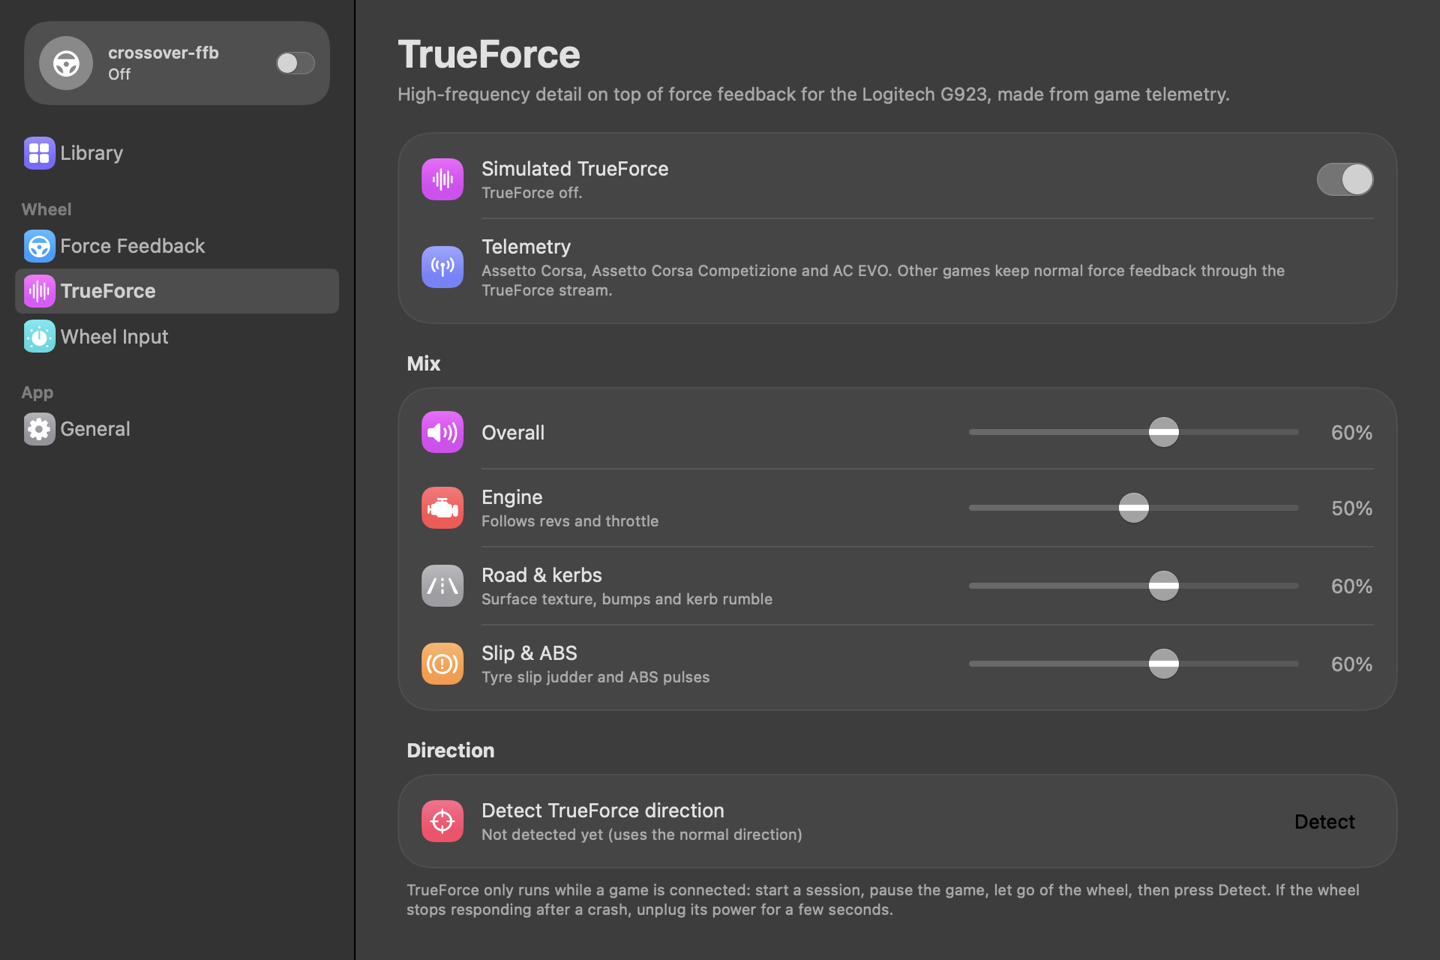
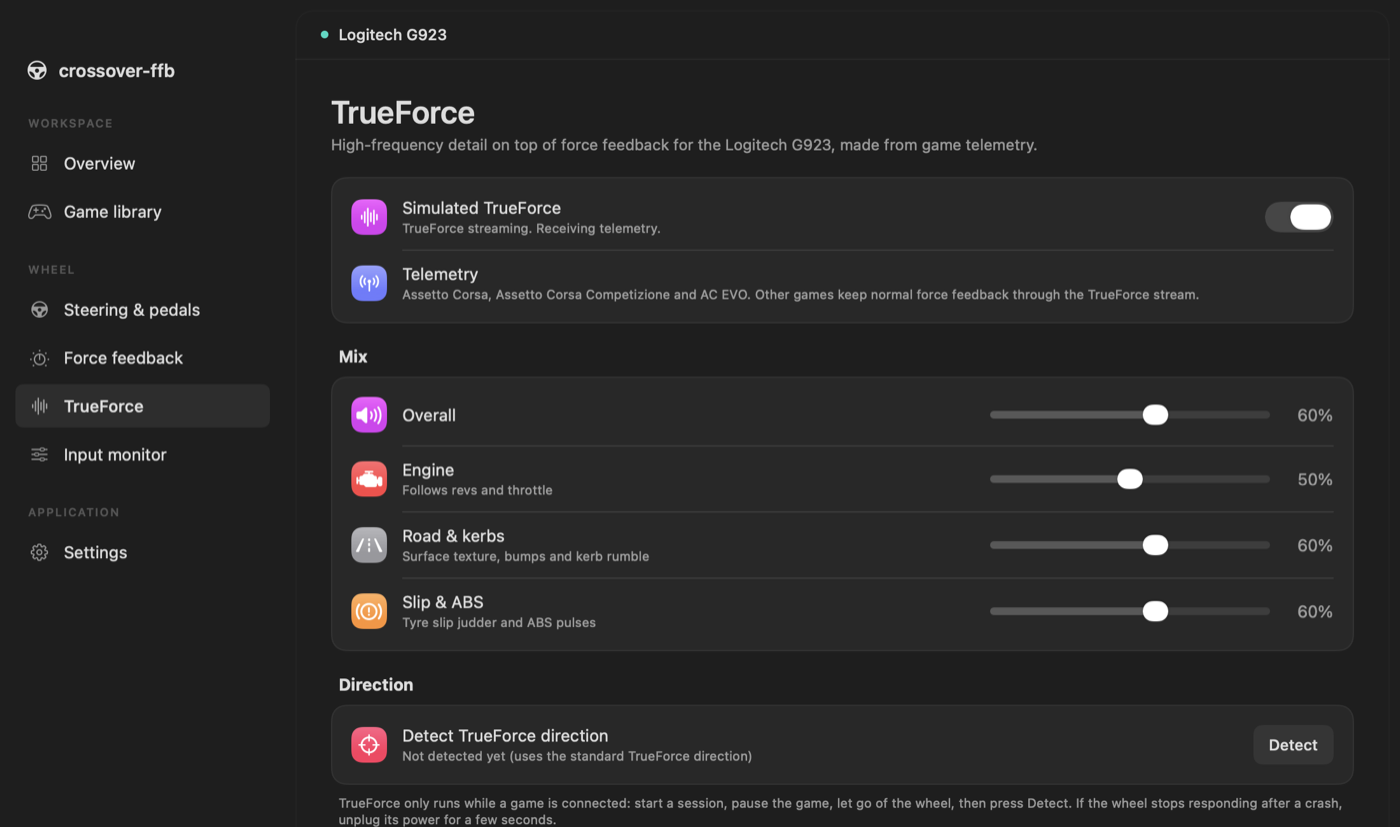
Rewrite README for 0.3.0 with new screenshots
Adds a hero image of the new dashboard, refreshes the wheel and
TrueForce screenshots, and removes the old menu and library images.
Documents what's new in 0.3.0, G29 identity and unsupported wheels,
the bridge foundations (identity, enumeration diagnostics, disabled
native SDK and newer-wheel groundwork), and the native build system.

diff --git a/README.md b/README.md
@@ -1,3 +1,7 @@
+<p align="center">
+  <img src="docs/images/hero.png" width="860" alt="crossover-ffb dashboard with a connected Logitech G923">
+</p>
+
 <h1 align="center">crossover-ffb</h1>
 
 <p align="center">
@@ -9,8 +13,8 @@
 
 Windows sims run well on Apple Silicon through Wine, but the wheel arrives dead: no force
 feedback, sometimes no wheel at all. crossover-ffb fixes that. It's a small menu bar app plus
-a Windows DLL that it installs into your games for you. The game sees a normal Logitech G923,
-and its forces reach the real wheel on your Mac.
+a Windows DLL that it installs into your games for you. The game sees a normal Logitech G923
+or G29, and its forces reach the real wheel on your Mac.
 
 - **Force feedback.** Constant forces, springs, dampers, friction, periodic effects and
   envelopes, played on the motor at about 500 Hz.
@@ -21,19 +25,33 @@ and its forces reach the real wheel on your Mac.
   was there before.
 - **G HUB-style wheel settings.** Operating range from 40° to 900°, steering and pedal
   sensitivity curves, a centering spring, combined pedals, and rev lights driven by the game's rpm.
-- **Lives in the menu bar.** No Dock icon. A full Settings window has the game library,
-  force-feedback and TrueForce tuning, and a live input view.
+- **Lives in the menu bar.** A Liquid Glass menu shows steering, pedals and force at a glance.
+  The dashboard window has the game library, wheel, force-feedback and TrueForce settings, and a
+  live input monitor.
 
-<p align="center">
-  <img src="docs/images/library.png" width="820" alt="Library page in the Settings window">
-</p>
+## What's new in 0.3.0
+
+- **G29 identity.** Games now see a connected G29 as a G29 instead of a G923, so G29 presets
+  and bindings can match. See [Bridge foundations](#bridge-foundations-in-030).
+- **New interface.** The menu is a single Liquid Glass surface with native sliders and
+  switches. The dashboard has a slimmer header, clearer empty states, and page titles that
+  match the sidebar.
+- **Honest about other wheels.** A G923 for Xbox, RS50 or G PRO is recognised and shown as
+  not supported yet. The app never attaches to it or writes to it.
+- **Better diagnostics.** The bridge log records which wheel each game was offered.
+- **Groundwork for Logitech's native SDK and newer wheels.** It's present in the code but
+  disabled and not hardware-tested.
+
+Update the bridge in each game after upgrading: the Library shows **Update**. The app and the
+bridge must both be 0.3.0 for the G29 identity.
 
 ## Compatibility
 
 | | Status |
 |---|---|
-| **Wheels** | Logitech **G923** (PlayStation/PC, `046d:c266`): tested. Logitech **G29** (`046d:c24f`): force feedback should work but is untested. TrueForce is G923 only. |
-| **macOS** | 13 Ventura or later on Apple Silicon. Liquid Glass styling on macOS 26. |
+| **Wheels** | Logitech **G923** (PlayStation/PC, `046d:c266`): tested. Logitech **G29** (`046d:c24f`): supported, not yet confirmed on hardware. TrueForce is G923 only. |
+| **Not supported yet** | G923 for Xbox (`c26e`, `c26d`), RS50 (`c276`), G PRO (`c268`), and `c272`, which RS50 and G PRO share. Shown in the app, never driven. |
+| **macOS** | 13 Ventura or later on Apple Silicon. Liquid Glass on macOS 26 and later. |
 | **Runners** | Steam games through **NotProton**, **CrossOver** bottles (including Steam inside a bottle), any other Wine prefix via **Add Game** |
 | **Games** | Any **64-bit** game that reads its wheel through **DirectInput 8**, which covers most PC sims |
 
@@ -41,7 +59,7 @@ and its forces reach the real wheel on your Mac.
 |---|---|---|
 | Assetto Corsa Competizione | ✅ tested | ✅ full (telemetry) |
 | Assetto Corsa EVO | ✅ tested | ✅ full (telemetry) |
-| Assetto Corsa | should work | full (telemetry) |
+| Assetto Corsa | being investigated with a G29 ([#1](../../issues/1)) | full (telemetry) |
 | Automobilista 2, rFactor 2, Le Mans Ultimate, RaceRoom, BeamNG.drive | should work | FFB only, no extra detail |
 
 "Should work" means the game uses DirectInput 8 but nobody has reported on it yet. If you try
@@ -62,31 +80,33 @@ To remove it, uninstall the bridge from each game in the Library, then delete th
 
 ## Set up a game
 
-1. Open **Settings › Library**. Your games appear by themselves. If one is missing, press
-   **Add Game** and pick its `.exe`. For a Steam + NotProton game, launch it once first so its
-   Wine prefix exists.
+1. Open the dashboard from the menu and go to **Game library**. Your games appear by
+   themselves. If one is missing, press **Add Game** and pick its `.exe`. For a Steam +
+   NotProton game, launch it once first so its Wine prefix exists.
 2. Quit the game and press **Install**.
-3. Once, with no game running and your hands off the wheel: **Settings › Force Feedback ›
-   Detect**. This learns which way your motor turns.
-4. Start the game, pick **"G923 Racing Wheel for PlayStation and PC"** in its controls, and
-   calibrate. The menu shows the game as connected and the force meter moves.
+3. Once, with no game running and your hands off the wheel: **Force feedback › Detect**. This
+   learns which way your motor turns.
+4. Start the game, pick your wheel in its controls and calibrate. It's listed as
+   **"G923 Racing Wheel for PlayStation and PC"** or **"G29 Driving Force Racing Wheel"**. The
+   menu shows the game as connected and the force meter moves.
 5. If the wheel pushes *away* from centre in corners, turn on **Reverse game force direction**.
 
 For ACC, the default G923 preset already matches the layout: steering axis 0, throttle 1,
-brake 5, clutch 6.
+brake 5, clutch 6. Coming from 0.2.x with a G29, select the wheel again in each game, because
+older versions presented it as a G923.
 
-### Steering wheel settings
+### Steering & pedals
 
-<img src="docs/images/wheel.png" width="560" align="right" alt="Steering Wheel settings">
+<img src="docs/images/wheel.png" width="560" align="right" alt="Steering & pedals settings">
 
-**Settings › Steering Wheel** has the options Logitech G HUB offers for the G923 and G29,
-which G HUB can't provide under Wine:
+**Steering & pedals** has the options Logitech G HUB offers for the G923 and G29, which G HUB
+can't provide under Wine:
 
 - **Operating range**, 40° to 900°, with presets for 180°, 270°, 360°, 540°, 720° and 900°.
   The wheel reports full steering over that angle and holds a soft stop at the ends.
 - **Sensitivity**, a response curve where 50 is linear. The same curve is available for each pedal.
 - **Centering spring**, for games without force feedback, optionally on top of the game's own forces.
-- **Torque** and **audio effects**, which are the force-feedback and TrueForce strengths.
+- **Torque** and, on the G923, **audio effects**, which are the force-feedback and TrueForce strengths.
 - **Combined pedals**, which put the accelerator and brake on one axis for older games.
 - **Rev lights**. The LEDs fill up with the engine's rpm and flash at the limiter
   (Assetto Corsa, ACC and AC EVO).
@@ -98,11 +118,12 @@ which G HUB can't provide under Wine:
 <img src="docs/images/trueforce.png" width="560" align="right" alt="TrueForce settings">
 
 Real TrueForce needs Logitech G HUB and Logitech's SDK inside the game, and neither runs under
-Wine. crossover-ffb simulates it instead. The bridge copies the game's physics telemetry into
-shared memory, and the app turns it into a haptic signal: engine firing pulses that follow rpm
-and throttle, suspension and road texture, kerb rumble, tyre-slip judder and ABS pulses.
+stock Wine. crossover-ffb simulates it instead. The bridge copies the game's physics telemetry
+into shared memory, and the app turns it into a haptic signal: engine firing pulses that follow
+rpm and throttle, suspension and road texture, kerb rumble, tyre-slip judder and ABS pulses.
 
-- Turn it on in the menu, and set the mix in **Settings › TrueForce**.
+- Turn it on in the menu, and set the mix on the **TrueForce** page. The page only appears
+  while a G923 with its TrueForce interface is connected.
 - In game, pause, let go of the wheel and press **Detect** once to learn the stream's direction.
 - Games without telemetry still get normal force feedback through the TrueForce stream.
 - If the wheel stops responding after a crash, unplug its power for a few seconds.
@@ -113,21 +134,61 @@ and throttle, suspension and road texture, kerb rumble, tyre-slip judder and ABS
 
 ```
  game (Wine) ──DirectInput 8──► dinput8.dll ──shared memory──► crossover-ffb.app ──USB HID──► wheel
-             ◄── virtual G923 ◄──────── input ◄─────────────────── input ◄──────────────
+             ◄─ virtual G923/G29 ◄──── input ◄───────────────────── input ◄──────────────
 ```
 
 - The installer copies `dinput8.dll` next to the game's .exe and adds a per-game
   `dinput8 = native,builtin` override to the Wine prefix. Any DLL or override that was already
   there is backed up and put back on uninstall.
-- The DLL presents a virtual **"G923 Racing Wheel for PlayStation and PC"** with Logitech's
-  name and IDs, so in-game presets apply. It uses the standard layout: X steering, Y
-  throttle, Rz brake, Slider clutch, 25 buttons and a D-pad. Keyboards, mice and other
-  controllers pass through to Wine's own dinput8.
+- The DLL presents one virtual wheel with the connected model's Logitech name and IDs, so
+  in-game presets apply. It uses the standard layout: X steering, Y throttle, Rz brake, Slider
+  clutch, 25 buttons and a D-pad. The physical G923 or G29 is hidden so the game sees one wheel.
+  Keyboards, mice and other controllers pass through to Wine's own dinput8.
 - Effects the game creates are mirrored to the app over shared memory
   (`/tmp/crossover-ffb-<uid>/ffb-v2.bin`, see [bridge/SHARED-MEMORY.md](bridge/SHARED-MEMORY.md)).
   The app computes them against live wheel motion and drives the motor.
 - The DLL is written freestanding: it imports only KERNEL32, and it writes a log,
   `crossover-ffb-observe.log`, next to the game's .exe.
+
+## Bridge foundations in 0.3.0
+
+0.3.0 changes what the bridge tells games, and adds groundwork that stays switched off until
+it's proven on real hardware.
+
+**Wheel identity.** The app publishes the connected wheel's USB ID (`046d:c24f` G29,
+`046d:c266` G923) alongside the input, in a previously unused slot of the shared memory. The
+file layout and protocol version don't change. The DLL uses that one value for everything a
+game can ask: enumeration, `GetDeviceInfo`, the product and instance names, and
+`DIPROP_VIDPID`. A G29 is named "G29 Driving Force Racing Wheel" with product GUID
+`{c24f046d-0000-0000-0000-504944564944}`. The G923 keeps its name and GUID. The virtual
+instance GUID is unchanged, so instance-keyed bindings survive. If either side is older, the
+DLL falls back to the G923 identity. Start the app before the game, because some games cache
+the wheel's identity.
+
+**Diagnostics.** Games choose their wheel from DirectInput enumeration alone. The log
+(tagged `cfb-bridge-v3`) now records each enumeration: the device kind requested, whether the
+virtual wheel was offered and with which product GUID, how many physical wheels were hidden,
+and the result. A report's log now shows which wheel the game was offered, not only what it
+read.
+
+**Native SDK groundwork (disabled).** Real TrueForce comes from Logitech's own SDK DLL, the
+one G HUB ships, which needs a patched Wine to reach the wheel. The pieces on our side exist
+but are inactive:
+
+- When the SDK asks the virtual wheel for its device path, the bridge can return the real PS
+  G923's path. It refuses when there's no wheel or more than one, and never invents a path.
+- `--sdk-input-only` runs the app as a reader only. It never writes to the motor, so it can't
+  fight the SDK.
+- Checks for the SDK DLL and a launch plan writer exist. Nothing installs the SDK, patches
+  Wine, changes a bottle or launches a game.
+
+**Newer wheels (disabled).** Read-only profiles identify the G923 for Xbox, RS50 and G PRO, and
+treat `c272` as ambiguous because both RS50 and G PRO use it. Offline encoders cover the Xbox
+G923's HID++ force effects and the RS50/G PRO direct-drive stream. They're tested against
+synthetic data only. No output is sent to these wheels, and no torque scaling is assumed.
+
+The acceptance gates for turning any of this on are in
+[docs/NATIVE-WHEEL-FOUNDATION.md](docs/NATIVE-WHEEL-FOUNDATION.md).
 
 ## Safety
 
@@ -135,6 +196,7 @@ The motor is driven only while a game is connected and polling, with a heartbeat
 less. Paused or stalled games, Stop commands, quitting the app and unplugging all zero the
 force. If the app is force-killed while a game holds a force, the wheel can keep that force
 until you unplug it. Strength defaults to 80%. Keep your hands clear when running **Detect**.
+Unsupported wheels are never written to.
 
 ## Building from source
 
@@ -143,20 +205,26 @@ brew install llvm lld   # cross-compiles the Windows DLL
 ./scripts/package-app   # tests and builds the DLL, then dist/crossover-ffb.app and a .dmg
 ```
 
-Requires Xcode 26 (Swift 6). See [CONTRIBUTING.md](CONTRIBUTING.md) for tests, the
-diagnostic CLI (`crossover-ffb games`, `bridge-probe`, `trueforce-probe`) and the code layout.
+Requires Xcode 26 (Swift 6). The scripts build with SwiftPM's native build system, because
+the default one records an old SDK version in the binary and macOS then draws legacy controls.
+See [CONTRIBUTING.md](CONTRIBUTING.md) for tests, the diagnostic CLI (`crossover-ffb games`,
+`bridge-probe`, `trueforce-probe`) and the code layout. `CrossoverFFBApp --simulate-wheel g29`
+(or `g923`, `rs50`, `disconnected` and others) shows the interface with a sample wheel and
+hardware disabled.
 
 ## Contributing
 
-Reports from other games and wheels are the most useful help right now. See
-[CONTRIBUTING.md](CONTRIBUTING.md).
+Reports from other games and wheels are the most useful help right now, especially from G29
+owners. See [CONTRIBUTING.md](CONTRIBUTING.md).
 
 ## Credits
 
-- TrueForce protocol facts come from the public notes of
+- TrueForce and direct-drive protocol facts come from the public notes of
   [mescon/logitech-trueforce-linux-driver](https://github.com/mescon/logitech-trueforce-linux-driver).
 - Classic Logitech force-feedback commands were cross-checked against
   [berarma/new-lg4ff](https://github.com/berarma/new-lg4ff).
+- The native SDK groundwork follows the approach reported by
+  [armax9/g923-control-center](https://github.com/armax9/g923-control-center).
 
 All code here is original. No driver or SDK code was copied.
 
@@ -165,8 +233,5 @@ All code here is original. No driver or SDK code was copied.
 [MIT](LICENSE).
 
 crossover-ffb is not affiliated with Logitech, Kunos Simulazioni, CodeWeavers or Valve. Logitech,
-G923, G29 and TrueForce are trademarks of Logitech. Game names and artwork belong to their owners.
-
-Experimental native-SDK and new-wheel development is documented in
-[the native-wheel foundation and acceptance gates](docs/NATIVE-WHEEL-FOUNDATION.md).
-Xbox G923, RS50 and G PRO output is not enabled or hardware-accepted.
+G923, G29, G PRO, RS50 and TrueForce are trademarks of Logitech. Game names and artwork belong to
+their owners.
